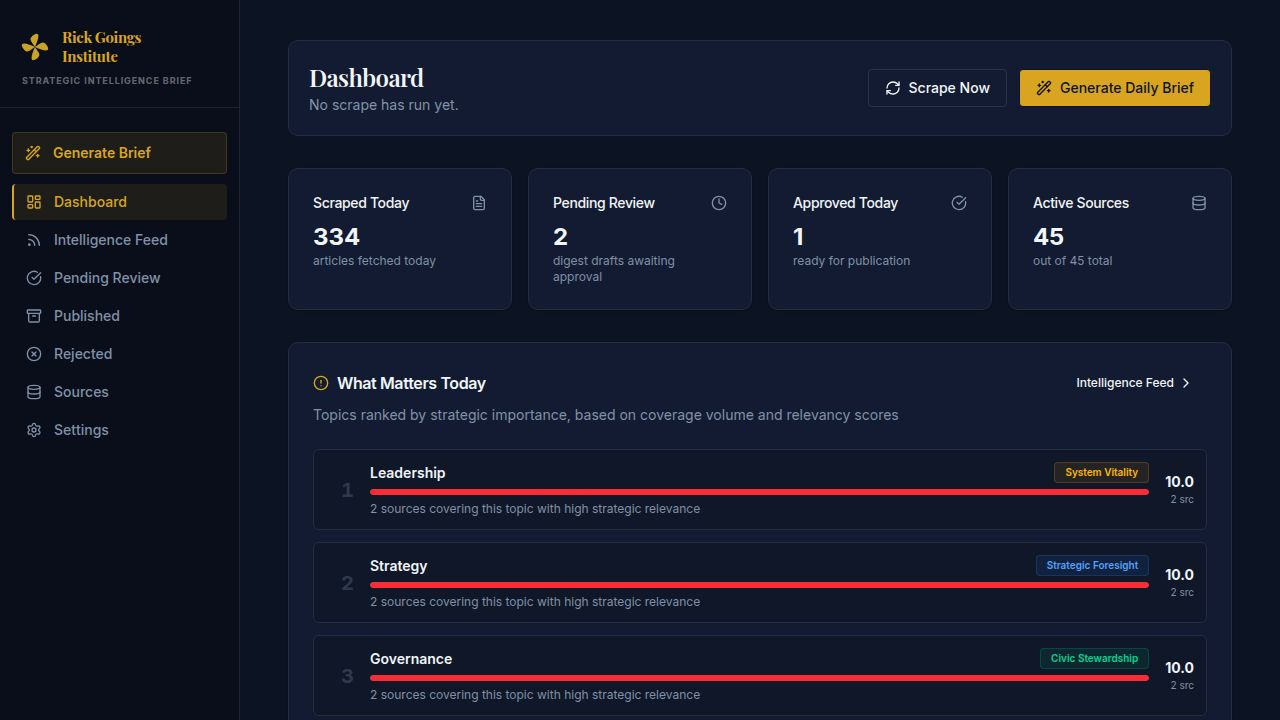
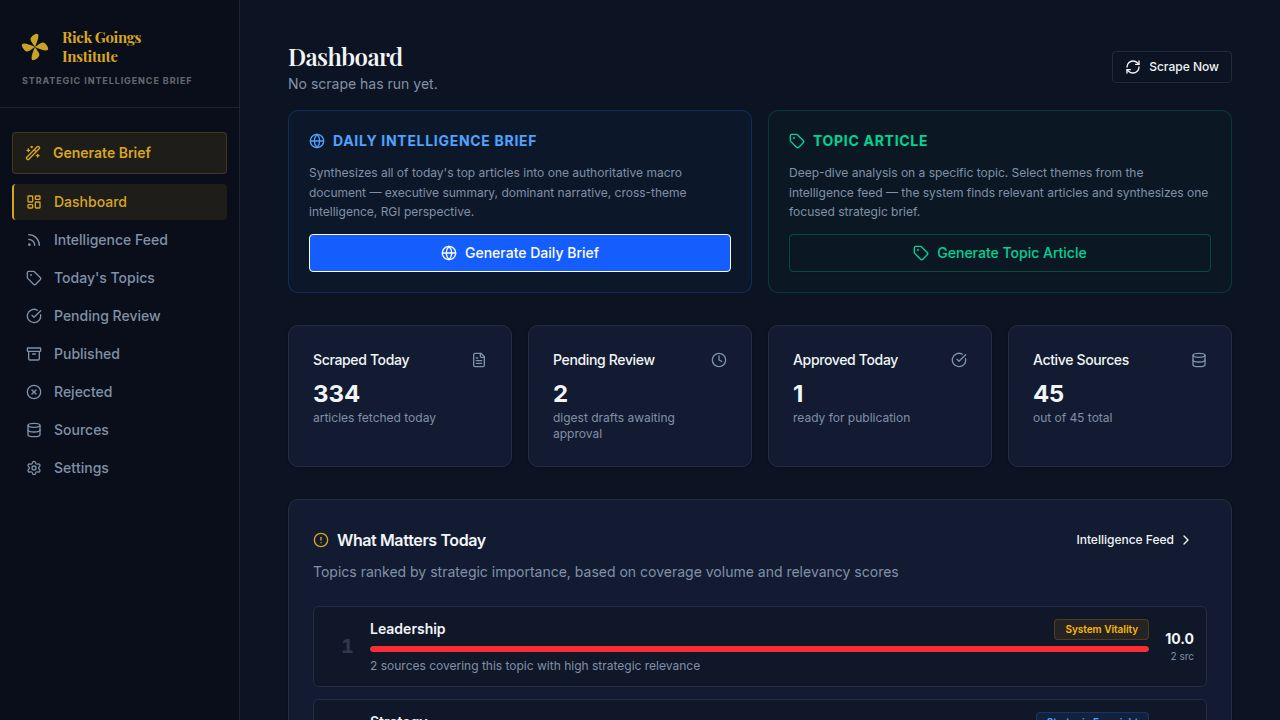
Improve article display and AI-generated insights
Update article card formatting to show full date, time, and relative recency alongside scores out of 10. Enhance AI writer prompts to generate more opinionated and interpretive RGI Takes.

Replit-Commit-Author: Agent
Replit-Commit-Session-Id: a230a883-aa92-4fae-b505-9738d428cf80
Replit-Commit-Checkpoint-Type: full_checkpoint
Replit-Commit-Event-Id: 810faf22-9d03-47dc-b282-212671fe1979
Replit-Commit-Screenshot-Url: https://storage.googleapis.com/screenshot-production-us-central1/35dd0280-5cb6-4537-8cd2-e074db10bf36/a230a883-aa92-4fae-b505-9738d428cf80/w5HAmgU
Replit-Helium-Checkpoint-Created: true

diff --git a/artifacts/rgi-digest/src/components/article-card.tsx b/artifacts/rgi-digest/src/components/article-card.tsx
@@ -3,7 +3,7 @@ import { Badge } from "@/components/ui/badge";
 import { Card, CardContent, CardFooter, CardHeader, CardTitle } from "@/components/ui/card";
 import { Button } from "@/components/ui/button";
 import { Article } from "@workspace/api-client-react";
-import { format } from "date-fns";
+import { format, formatDistanceToNow } from "date-fns";
 import { ExternalLink, Zap, Twitter, Linkedin, Newspaper, BookOpen, Building2, TrendingUp, Globe, ChevronDown, ChevronUp, Compass, Shield, Cpu, Loader2, Radio } from "lucide-react";
 import { Checkbox } from "@/components/ui/checkbox";
 
@@ -191,8 +191,12 @@ export function ArticleCard({ article, selectable, selected, onSelect, onTopicCl
                 </>
               )}
               <span className="text-muted-foreground/40 text-xs">·</span>
-              <span className="text-xs text-muted-foreground">
-                {format(new Date(publishTime), "MMM d, h:mm a")}
+              <span className="text-xs text-muted-foreground" title={format(new Date(publishTime), "MMMM d, yyyy 'at' h:mm a")}>
+                {format(new Date(publishTime), "MMM d, yyyy")}
+                <span className="text-muted-foreground/50"> — </span>
+                {format(new Date(publishTime), "h:mm a")}
+                <span className="text-muted-foreground/50"> · </span>
+                {formatDistanceToNow(new Date(publishTime), { addSuffix: true })}
               </span>
               <div className="ml-auto flex items-center gap-1.5">
                 {article.isPrimarySignal && (
@@ -205,8 +209,8 @@ export function ArticleCard({ article, selectable, selected, onSelect, onTopicCl
                     <Zap className="h-2.5 w-2.5" />Signal
                   </span>
                 )}
-                <Badge variant="outline" className={`text-xs font-bold ${getScoreColor(article.relevancyScore)}`}>
-                  {article.relevancyScore.toFixed(1)}
+                <Badge variant="outline" className={`text-xs font-bold tabular-nums ${getScoreColor(article.relevancyScore)}`}>
+                  {article.relevancyScore.toFixed(1)}<span className="font-normal opacity-60"> / 10</span>
                 </Badge>
               </div>
             </div>

diff --git a/artifacts/rgi-digest/src/pages/dashboard.tsx b/artifacts/rgi-digest/src/pages/dashboard.tsx
@@ -245,7 +245,13 @@ function TopStoriesSection({ articles, onNavigateFeed }: { articles: TopArticle[
                           <span className="font-medium text-foreground/70">{article.sourceName}</span>
                           {article.author && <span>· {article.author}</span>}
                           {article.publishedAt && (
-                            <span>· {formatDistanceToNow(new Date(article.publishedAt), { addSuffix: true })}</span>
+                            <span title={format(new Date(article.publishedAt), "MMMM d, yyyy 'at' h:mm a")}>
+                              · {format(new Date(article.publishedAt), "MMM d, yyyy")}
+                              <span className="text-muted-foreground/50"> — </span>
+                              {format(new Date(article.publishedAt), "h:mm a")}
+                              <span className="text-muted-foreground/50"> · </span>
+                              {formatDistanceToNow(new Date(article.publishedAt), { addSuffix: true })}
+                            </span>
                           )}
                           <a
                             href={article.url}

diff --git a/artifacts/api-server/src/lib/ai-writer.ts b/artifacts/api-server/src/lib/ai-writer.ts
@@ -54,7 +54,7 @@ Requirements:
 Return ONLY a valid JSON object with these exact fields:
 - headline: string (strong, direct, analytical — not clickbait; no colons splitting into two halves; written as a senior editor would headline a Foreign Affairs piece)
 - body: string (the complete synthesized brief as described above, 700-900 words, clean prose only — no markdown, no headers, no bullets)
-- rgiTake: string (3-5 sentences articulating RGI's specific perspective — which discipline(s) this engages, and what it means for the leaders RGI serves. This is the pull-quote-worthy distillation of the piece's significance.)
+- rgiTake: string (3-5 sentences of INTERPRETATION, not description. Name the RGI discipline(s) explicitly. State a clear point of view — what RGI actually thinks about this, why it matters NOW, and what it demands of leaders. This must read as an editorial opinion from a senior RGI fellow, not a neutral summary. Use active voice: "This signals...", "Leaders who ignore this...", "The strategic imperative here is..." — never "This article discusses...")
 - topicTags: string array (choose only from: ["AI", "Leadership", "Geopolitics", "Finance", "Environmental Health", "Central Florida", "Strategy", "Culture", "Technology", "Policy", "Education", "Economy", "Innovation", "Governance", "Health", "Democracy", "Future of Work", "Sustainability"])
 - discipline: string (exactly one of: "Strategic Foresight", "System Vitality", "Civic Stewardship", or "Multiple")
 - relevancyScore: number 1-10 (how strategically significant this is for senior leaders at the intersection of business, policy, and society)
@@ -92,7 +92,7 @@ Return ONLY a valid JSON object with these fields:
 - headline: string (the day's single most important strategic development, one declarative sentence)
 - executiveSummary: string array (exactly 6 bullet strings, each one tight sentence)
 - body: string (the full 900-1200 word prose brief as described above — no markdown, no headers, no bullets in the body)
-- rgiTake: string (3-5 sentences: which RGI discipline(s) today's events most illuminate and what it means for the leaders RGI serves)
+- rgiTake: string (3-5 sentences of sharp editorial OPINION, not description. Name the RGI discipline(s) explicitly. State what today's events mean — not what happened, but what RGI concludes from it. Use active, opinionated voice: "Today's convergence signals...", "The strategic imperative for leaders is...", "Organizations that fail to act on this..." — never summarize or describe. This is the pull-quote that captures RGI's distinctive analytical perspective on the day.)
 - topicTags: string array (from: ["AI", "Leadership", "Geopolitics", "Finance", "Environmental Health", "Central Florida", "Strategy", "Culture", "Technology", "Policy", "Education", "Economy", "Innovation", "Governance", "Health", "Democracy", "Future of Work", "Sustainability"])
 - discipline: string (one of: "Strategic Foresight", "System Vitality", "Civic Stewardship", "Multiple")
 - relevancyScore: number 1-10